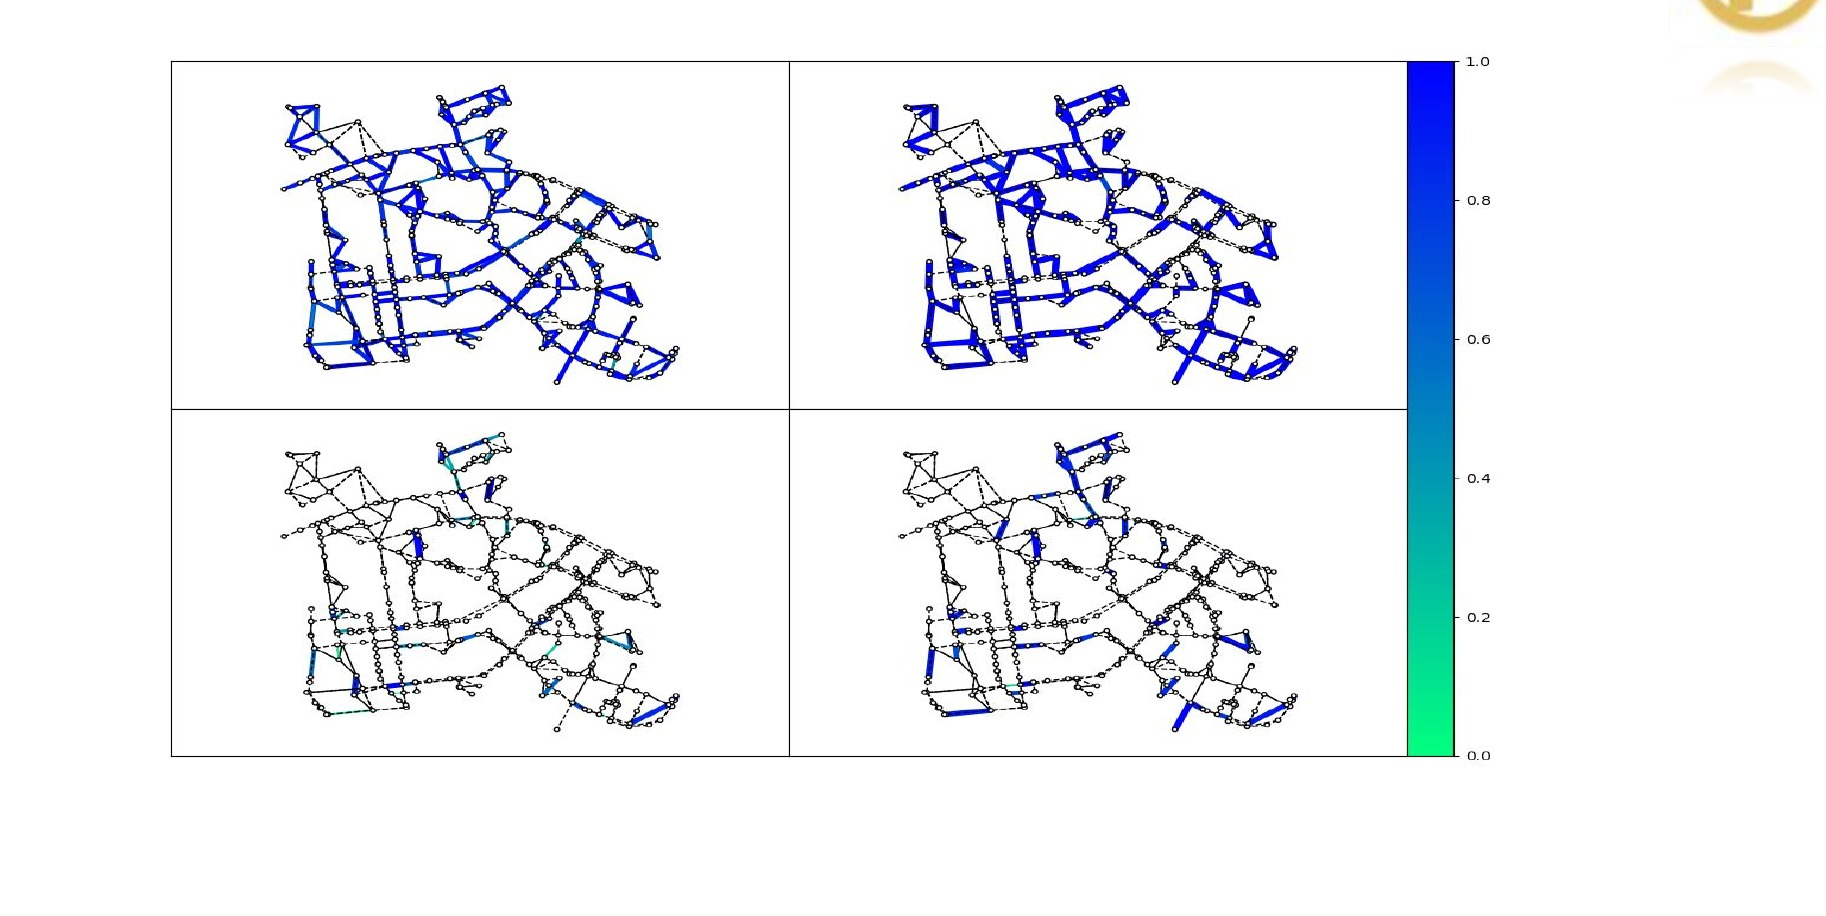
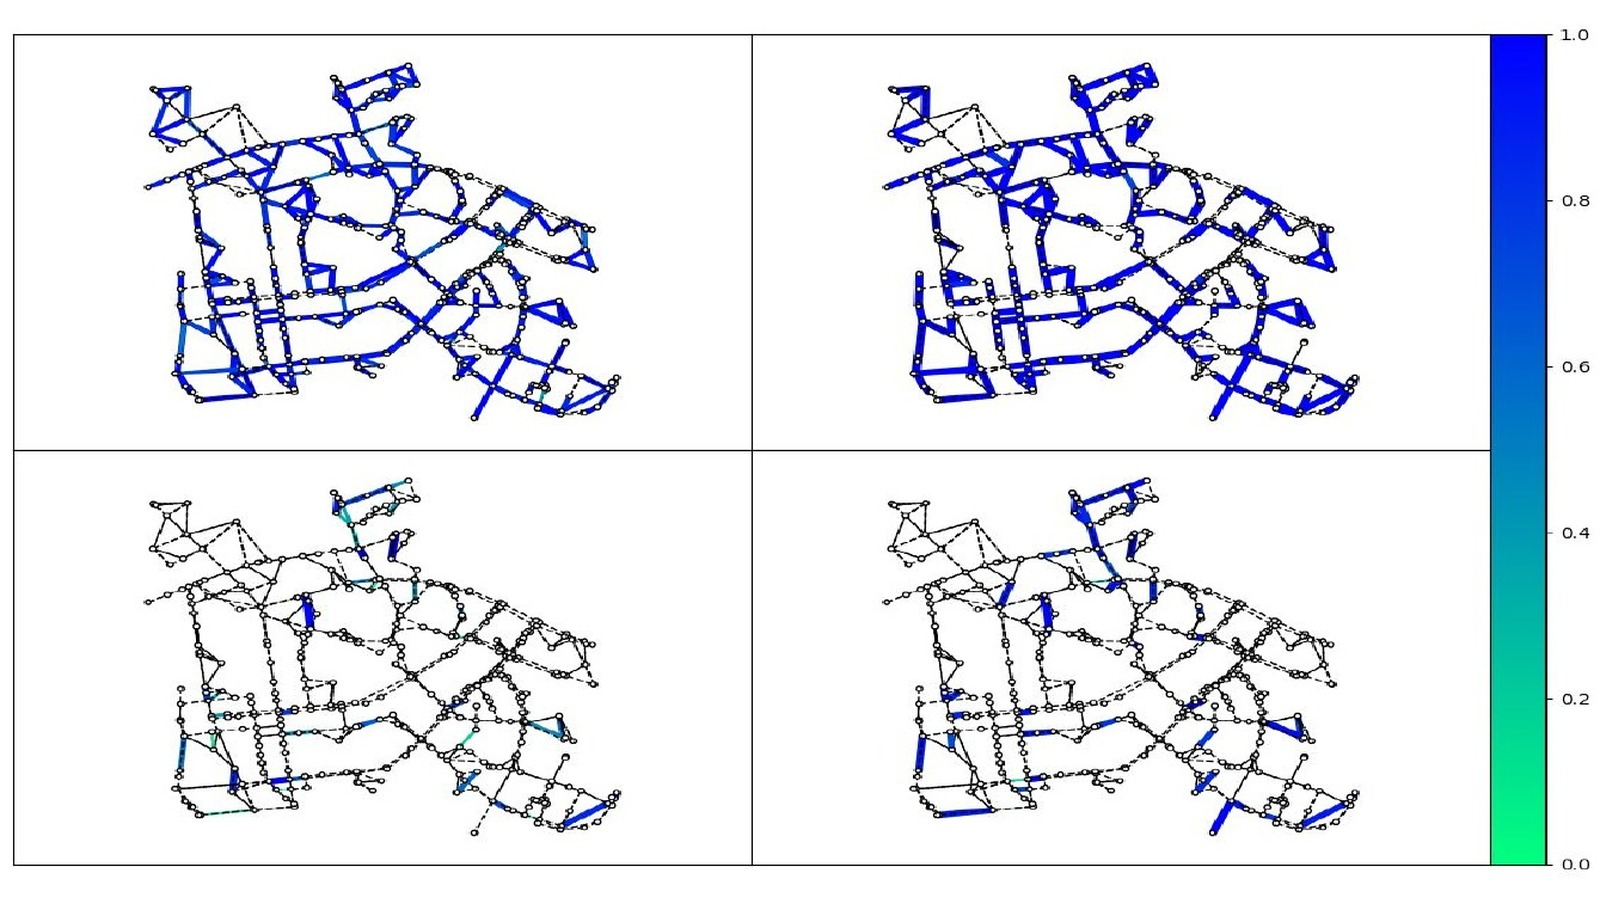
Mejoré las imágenes

diff --git a/index.html b/index.html
@@ -340,16 +340,12 @@
     }
     .carousel-slide { min-width: 100%; position: relative; }
     .carousel-slide img {
-      width: 100%; height: 260px;
-      object-fit: contain;
-      object-position: center center;
-      display: block;
-      background: linear-gradient(180deg, #f7f9fc 0%, #eef3f8 100%);
-    }
-    .carousel-slide img.carousel-img-cover {
+      width: 100%;
+      aspect-ratio: 16 / 9;
+      height: auto;
       object-fit: cover;
-      object-position: center top;
-      background: transparent;
+      display: block;
+      background: #fff;
     }
     .carousel-caption {
       padding: 14px 16px 10px;
@@ -361,7 +357,9 @@
     }
     .carousel-caption span { font-size: .75rem; color: var(--gray-3); line-height: 1.45; }
     .carousel-btn {
-      position: absolute; top: 115px; transform: translateY(-50%);
+      position: absolute;
+      top: calc((100% - var(--caption-h, 64px)) / 2);
+      transform: translateY(-50%);
       width: 34px; height: 34px; border-radius: 50%;
       background: rgba(255,255,255,.9); border: 1px solid var(--border);
       box-shadow: 0 2px 8px rgba(0,0,0,.12);
@@ -533,30 +531,7 @@
       </ul>
     </div>
 
-    <!-- Research Charts Carousel -->
-    <div class="card full carousel-card">
-      <div class="card-label" data-es="Visualizaciones de investigación" data-en="Research Visualizations">Visualizaciones de investigación</div>
-      <div class="carousel-slides" id="carousel-slides">
 
-        <!-- Slide 0: DVP chart -->
-        <div class="carousel-slide active" id="slide-0">
-          <p class="chart-subtitle"
-             data-es="Evolución del grado de DVP por franjas etarias (modelo de transición) — Largo Axial Normal"
-             data-en="DVP Grade Evolution by Age Group (Transition Model) — Normal Axial Length">
-            Evolución del grado de DVP por franjas etarias (modelo de transición) — Largo Axial Normal
-          </p>
-          <canvas id="dvp-chart"></canvas>
-        </div>
-
-      </div>
-      <div class="carousel-nav">
-        <button class="carousel-btn" id="prev-btn" disabled>&#8592;</button>
-        <div class="carousel-dots" id="carousel-dots">
-          <span class="dot active" data-idx="0"></span>
-        </div>
-        <button class="carousel-btn" id="next-btn" disabled>&#8594;</button>
-      </div>
-    </div>
 
     <!-- Publications -->
     <div class="card full">
@@ -610,7 +585,7 @@
         </div>
 
         <div class="carousel-slide">
-          <img src="img/public_transport.jpg" alt="Red de transporte público de Tandil" class="carousel-img-cover">
+          <img src="img/public_transport.jpg" alt="Red de transporte público de Tandil">
           <div class="carousel-caption">
             <strong data-es="Transporte público — Tandil" data-en="Public transport — Tandil">Transporte público — Tandil</strong>
             <span data-es="Optimización del sistema de transporte público urbano de Tandil. Convenio UNCPBA–Municipio de Tandil, 2021." data-en="Optimization of Tandil's urban public transport system. Agreement between UNCPBA and Municipality of Tandil, 2021.">Optimización del sistema de transporte público urbano de Tandil. Convenio UNCPBA–Municipio de Tandil, 2021.</span>
@@ -676,144 +651,6 @@
       setTimeout(() => msg.classList.remove('show'), 2200);
     });
   }
-
-  /* ── DVP CHART ── */
-  function initDVPChart() {
-    const canvas = document.getElementById('dvp-chart');
-    if (!canvas) return;
-
-    const ageGroups = ['<50', '50–54', '55–59', '60–64', '65–69', '70–74', '75–79', '80–84', '85 o más'];
-    const GRADES = 5;
-    const colors  = ['#3d87c8', '#6ab040', '#e8c020', '#e87820', '#cc3333'];
-    const bgColors = ['rgba(61,135,200,.11)', 'rgba(106,176,64,.11)', 'rgba(232,192,32,.11)', 'rgba(232,120,32,.11)', 'rgba(204,51,51,.11)'];
-
-    // props[grade][ageIndex] — sums to 1.00 per column
-    const props = [
-      [0.82, 0.62, 0.42, 0.28, 0.20, 0.16, 0.13, 0.10, 0.09],  // grade 0
-      [0.06, 0.13, 0.19, 0.21, 0.21, 0.21, 0.19, 0.17, 0.14],  // grade 1
-      [0.05, 0.10, 0.14, 0.18, 0.19, 0.19, 0.19, 0.19, 0.18],  // grade 2
-      [0.04, 0.08, 0.13, 0.16, 0.19, 0.21, 0.24, 0.24, 0.23],  // grade 3
-      [0.03, 0.07, 0.12, 0.17, 0.21, 0.23, 0.25, 0.30, 0.36],  // grade 4
-    ];
-
-    function draw() {
-      const dpr = window.devicePixelRatio || 1;
-      const W   = canvas.parentElement.clientWidth;
-      const H   = Math.round(Math.min(320, W * 0.42));
-      canvas.style.width  = W + 'px';
-      canvas.style.height = H + 'px';
-      canvas.width  = W * dpr;
-      canvas.height = H * dpr;
-
-      const ctx = canvas.getContext('2d');
-      ctx.scale(dpr, dpr);
-      ctx.clearRect(0, 0, W, H);
-
-      const mg = { top: 30, right: 34, bottom: 6, left: 10 };
-      const cW = W - mg.left - mg.right;
-      const cH = H - mg.top - mg.bottom;
-      const nC = ageGroups.length;
-
-      const colX = i => mg.left + (i / (nC - 1)) * cW;
-
-      // stacked segments per column (grade 0 at bottom)
-      function segs(col) {
-        const out = [];
-        let cum = 0;
-        for (let g = 0; g < GRADES; g++) {
-          const h = props[g][col] * cH;
-          out.push({ yB: mg.top + cH - cum, yT: mg.top + cH - cum - h });
-          cum += h;
-        }
-        return out;
-      }
-
-      // background bands (equal height, grade 0 at bottom)
-      const bandH = cH / GRADES;
-      for (let g = 0; g < GRADES; g++) {
-        ctx.fillStyle = bgColors[g];
-        ctx.fillRect(mg.left, mg.top + (GRADES - 1 - g) * bandH, cW, bandH);
-      }
-
-      // bezier fills between columns
-      for (let col = 0; col < nC - 1; col++) {
-        const s1 = segs(col), s2 = segs(col + 1);
-        const x1 = colX(col), x2 = colX(col + 1), xm = (x1 + x2) / 2;
-        for (let g = 0; g < GRADES; g++) {
-          ctx.beginPath();
-          ctx.moveTo(x1, s1[g].yT);
-          ctx.bezierCurveTo(xm, s1[g].yT, xm, s2[g].yT, x2, s2[g].yT);
-          ctx.lineTo(x2, s2[g].yB);
-          ctx.bezierCurveTo(xm, s2[g].yB, xm, s1[g].yB, x1, s1[g].yB);
-          ctx.closePath();
-          ctx.fillStyle = colors[g] + 'b0';
-          ctx.fill();
-        }
-      }
-
-      // column bars
-      const bW = Math.max(5, Math.round(W / 110));
-      for (let col = 0; col < nC; col++) {
-        const s = segs(col), x = colX(col);
-        for (let g = 0; g < GRADES; g++) {
-          ctx.fillStyle = colors[g];
-          ctx.fillRect(x - bW / 2, s[g].yT, bW, s[g].yB - s[g].yT);
-        }
-      }
-
-      // grade labels (right of last column)
-      const last = segs(nC - 1);
-      const fs = Math.max(10, Math.round(W / 78));
-      ctx.font = `bold ${fs}px Inter, sans-serif`;
-      ctx.textAlign = 'left';
-      for (let g = 0; g < GRADES; g++) {
-        const yMid = (last[g].yT + last[g].yB) / 2;
-        if (last[g].yB - last[g].yT < 7) continue;
-        ctx.fillStyle = colors[g];
-        ctx.fillText(g, W - mg.right + 5, yMid + fs * 0.36);
-      }
-
-      // age labels (top)
-      ctx.fillStyle = '#4b5563';
-      ctx.font = `${Math.max(9, Math.round(W / 92))}px Inter, sans-serif`;
-      ctx.textAlign = 'center';
-      for (let i = 0; i < nC; i++) {
-        ctx.fillText(ageGroups[i], colX(i), mg.top - 8);
-      }
-    }
-
-    draw();
-    window.addEventListener('resize', draw);
-  }
-
-  /* ── CAROUSEL ── */
-  function initCarousel() {
-    const slides = Array.from(document.querySelectorAll('.carousel-slide'));
-    const dots   = Array.from(document.querySelectorAll('#carousel-dots .dot'));
-    const prev   = document.getElementById('prev-btn');
-    const next   = document.getElementById('next-btn');
-    let cur = 0;
-
-    function show(idx) {
-      slides[cur].classList.remove('active');
-      dots[cur].classList.remove('active');
-      cur = idx;
-      slides[cur].classList.add('active');
-      dots[cur].classList.add('active');
-      prev.disabled = cur === 0;
-      next.disabled = cur === slides.length - 1;
-    }
-
-    dots.forEach((d, i) => d.addEventListener('click', () => show(i)));
-    prev.addEventListener('click', () => { if (cur > 0) show(cur - 1); });
-    next.addEventListener('click', () => { if (cur < slides.length - 1) show(cur + 1); });
-
-    prev.disabled = true;
-    next.disabled = slides.length <= 1;
-  }
-
-  initDVPChart();
-  initCarousel();
 
   let currentLang = 'es';
 
